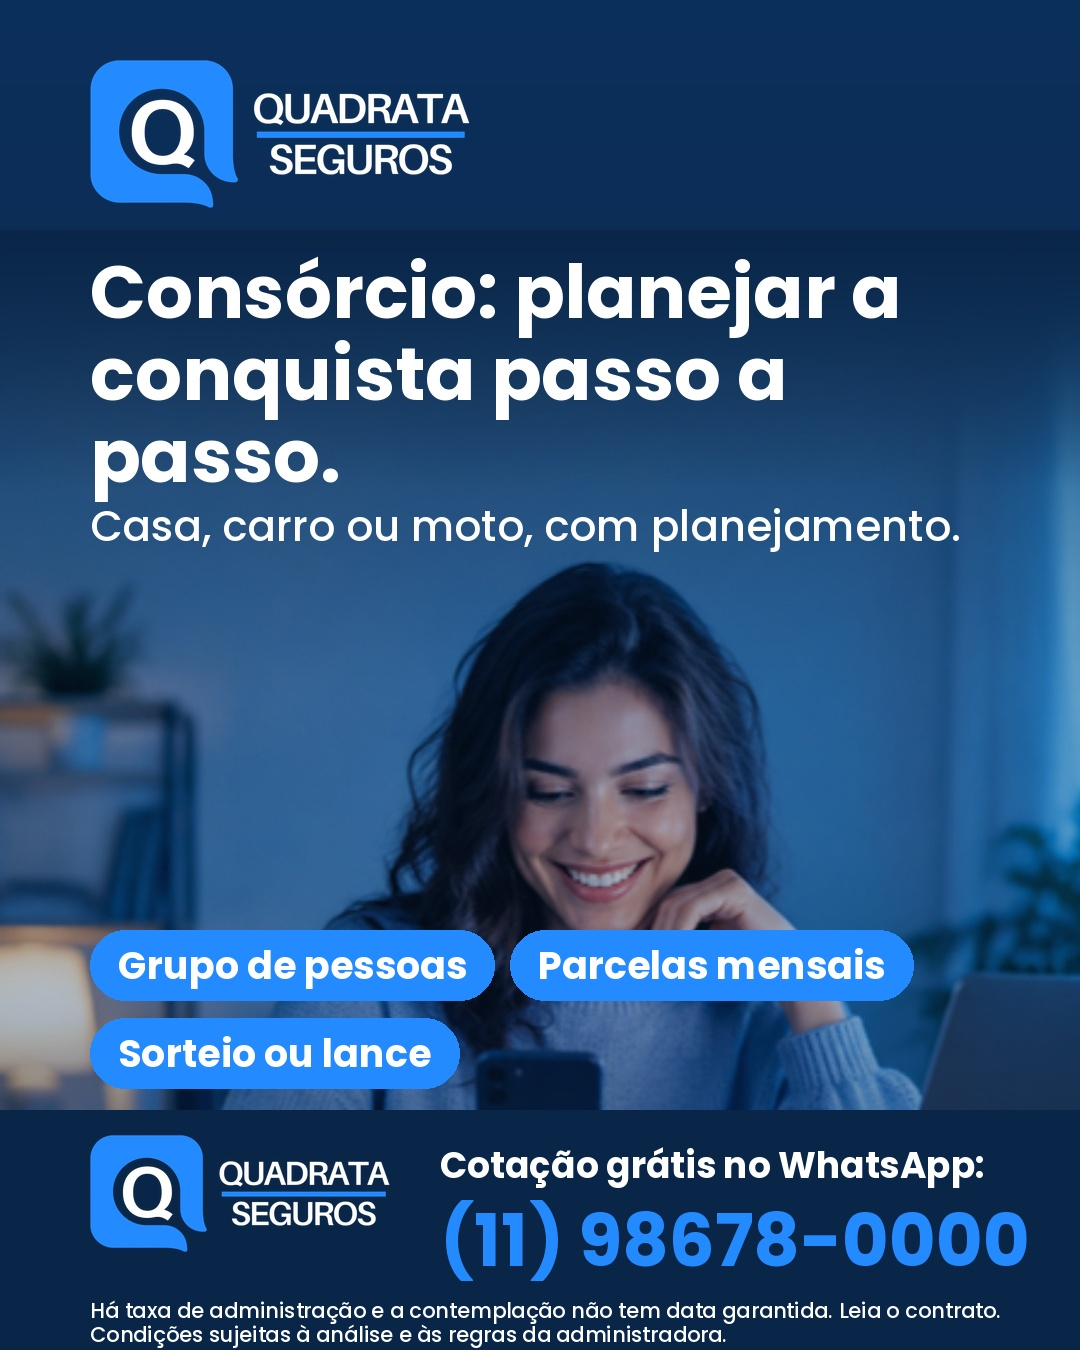
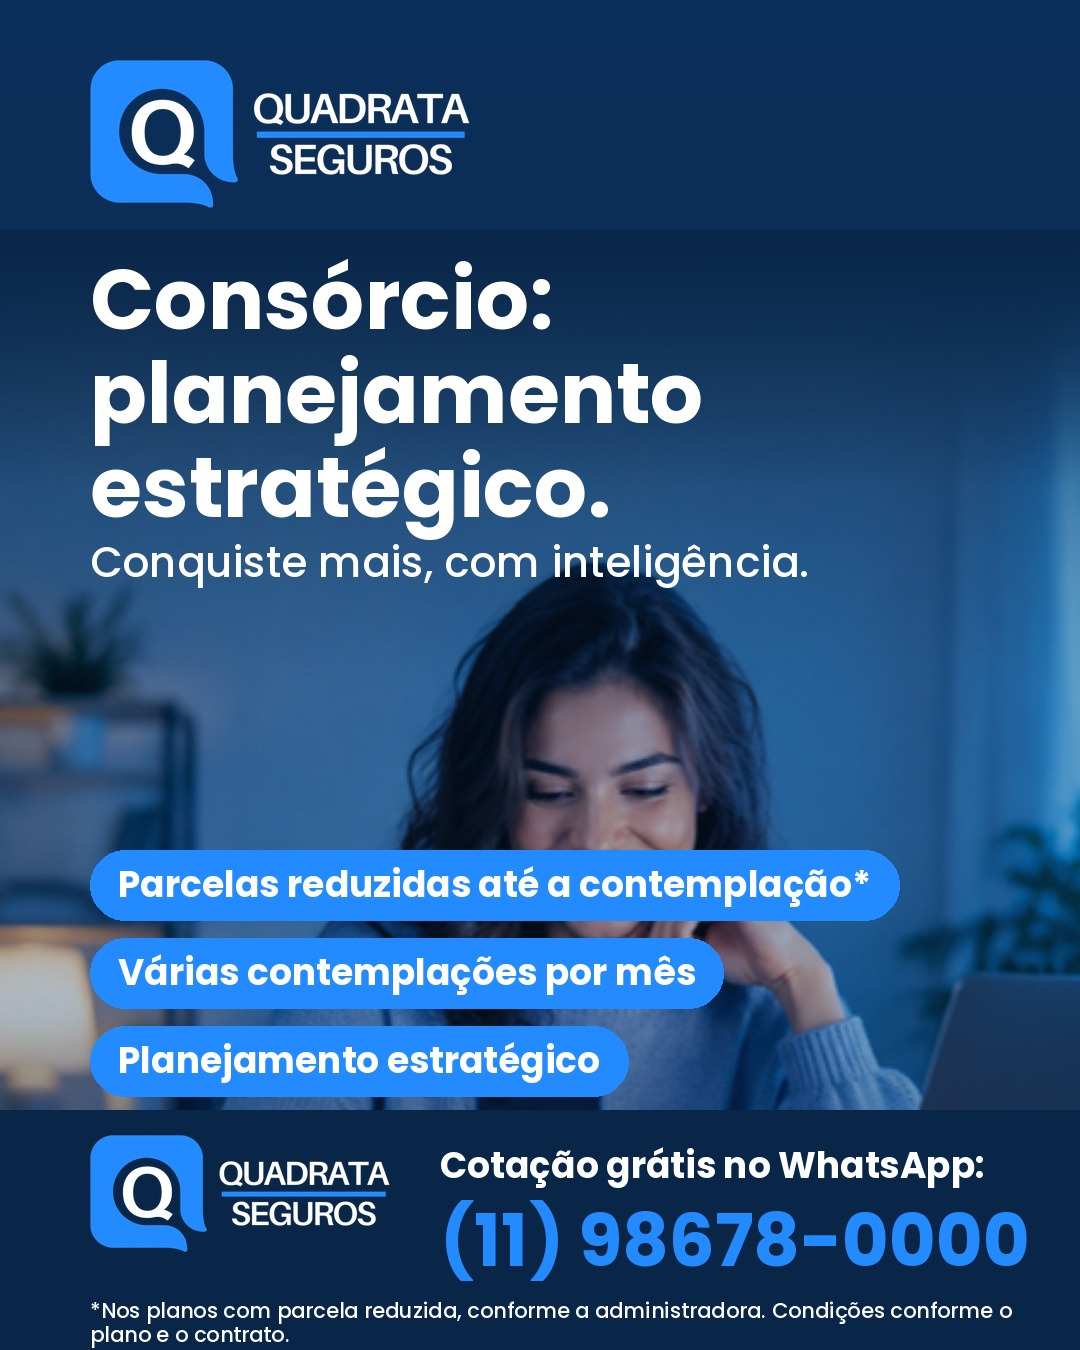
Consorcio com foco nos beneficios; regra de tom positivo no CLAUDE.md
Claude-Session: https://claude.ai/code/session_01JE4Do4Baqec44L69WzAG2V

Changed region(s): [[0.0611, 0.1867, 0.8861, 0.4356], [0.0611, 0.6222, 0.8556, 0.84], [0.0611, 0.9644, 0.9472, 1.0]]

diff --git a/scripts/gerar_feeds.py b/scripts/gerar_feeds.py
@@ -87,7 +87,7 @@ def cta(pergunta, palavra, n, total, aviso=AVISO_PADRAO):
     return t
 
 
-def post_foto(foto, titulo, sub, chips, aviso=None, desloca=0, tam_titulo=84, chips_y=800):
+def post_foto(foto, titulo, sub, chips, aviso=None, desloca=0, tam_titulo=84, chips_y=800, tam_chip=38):
     """Imagem única: foto de fundo, título no alto, chips e faixa de contato embaixo."""
     bg = g.fundo(RAIZ / foto, 0.30, 0.50, 0.85).convert('RGBA')
     if desloca:
@@ -103,7 +103,7 @@ def post_foto(foto, titulo, sub, chips, aviso=None, desloca=0, tam_titulo=84, ch
     y = g.texto_linhas(d, g.quebra(d, titulo, g.fonte(tam_titulo), 900), g.fonte(tam_titulo), M, 240)
     if sub:
         g.texto_linhas(d, g.quebra(d, sub, g.fonte(42, False), 900), g.fonte(42, False), M, y + 10)
-    x, yy, f = M, chips_y, g.fonte(38)
+    x, yy, f = M, chips_y, g.fonte(tam_chip)
     for c in chips:
         w = int(d.textlength(c, font=f)) + 56
         if x + w > W - M:
@@ -169,9 +169,10 @@ def novembro_azul(foto='reels/fotos/novembro_azul.jpg'):
 
 def consorcio(foto='reels/fotos/perguntas.jpg'):
     salvar('027_consorcio', [post_foto(
-        foto, 'Consórcio: planejar a conquista passo a passo.', 'Casa, carro ou moto, com planejamento.',
-        ['Grupo de pessoas', 'Parcelas mensais', 'Sorteio ou lance'],
-        'Há taxa de administração e a contemplação não tem data garantida. Leia o contrato. Condições sujeitas à análise e às regras da administradora.', desloca=230, tam_titulo=74, chips_y=930)])
+        foto, 'Consórcio: planejamento estratégico.', 'Conquiste mais, com inteligência.',
+        ['Parcelas reduzidas até a contemplação*', 'Várias contemplações por mês', 'Planejamento estratégico'],
+        '*Nos planos com parcela reduzida, conforme a administradora. Condições conforme o plano e o contrato.',
+        desloca=230, tam_titulo=84, chips_y=850, tam_chip=36)])
 
 
 if __name__ == '__main__':

diff --git a/CLAUDE.md b/CLAUDE.md
@@ -52,6 +52,11 @@ credenciais.txt          (token — NUNCA enviar ao GitHub nem mostrar em chat)
 - **Só colocar na agenda posts que o usuário já aprovou.**
 - Ver a fila: `python scripts/publicar_agenda.py --status`.
 
+## Tom dos textos (decisão do Fabrício)
+- Destacar os **benefícios** do consórcio e dos demais produtos. Não montar listas de pontos negativos.
+- Manter só uma nota curta de condições (ex.: "Condições conforme o plano e o contrato").
+- Evitar superlativos que precisem de comprovação ("o mais barato", "a forma mais econômica"): usar "um caminho econômico", "inteligente", "estratégico".
+
 ## Colaborador (regra obrigatória)
 - **Todo post de feed, carrossel e Reel marca @quadrataseguros como colaborador.** O robô (`publish_instagram.py`) já envia o convite. Stories não aceitam colaborador.
 - O Windsor não tem o campo de colaborador: se um post for publicado por ele, convidar @quadrataseguros à mão no Instagram (Marcar pessoas > Convidar colaborador) e avisar o Fabrício.
